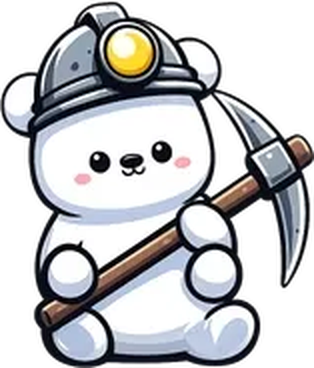
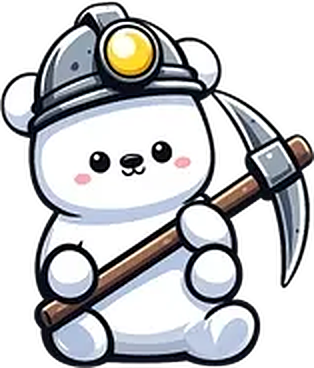
Mascot: smaller crisp size, 60% fade

diff --git a/index.html b/index.html
@@ -96,10 +96,10 @@
   .hero-meta .when b{color:var(--on-dark);font-weight:600}
   .hero-cta{margin-top:36px;display:flex;flex-wrap:wrap;gap:12px}
   .dday{font-family:var(--display);font-weight:700;font-size:13px;letter-spacing:.18em;color:var(--accent);margin-bottom:18px}
-  .mascot{position:absolute;right:0;bottom:0;width:clamp(160px,26vw,300px);height:calc(clamp(160px,26vw,300px) * .8);pointer-events:none;overflow:hidden;
-      -webkit-mask-image:linear-gradient(to bottom,#000 55%,transparent 98%);mask-image:linear-gradient(to bottom,#000 55%,transparent 98%)}
-  .mascot img{width:100%;display:block}
-  @media (max-width:760px){.mascot{width:140px;height:112px;bottom:auto;top:-6px;right:0}}
+  .mascot{position:absolute;right:0;bottom:0;width:clamp(120px,14vw,150px);height:calc(clamp(120px,14vw,150px) * 1.17 * .72);pointer-events:none;overflow:hidden;
+      -webkit-mask-image:linear-gradient(to bottom,#000 60%,transparent 100%);mask-image:linear-gradient(to bottom,#000 60%,transparent 100%)}
+  .mascot img{width:100%;display:block;filter:drop-shadow(0 10px 20px rgba(0,0,0,.35))}
+  @media (max-width:760px){.mascot{width:110px;height:92px;bottom:auto;top:-4px;right:0}}
   .hero-bottom{display:flex;justify-content:space-between;align-items:center;padding-bottom:24px;border-top:1px solid var(--dark-line);padding-top:18px;font-size:13px;color:var(--on-dark-muted)}
   .hero-bottom .gen{font-family:var(--display);letter-spacing:.12em}
 
